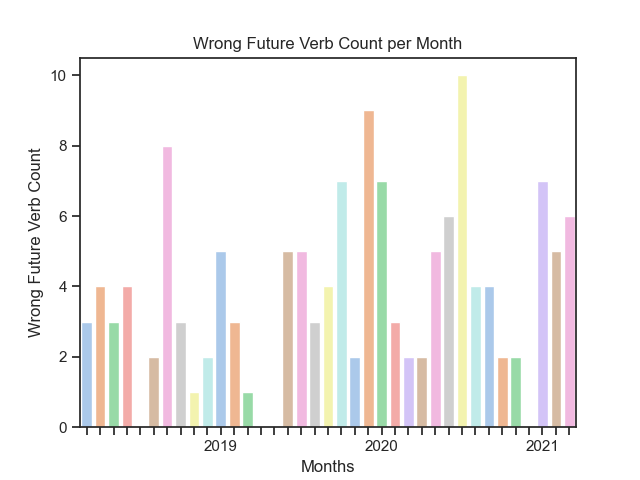
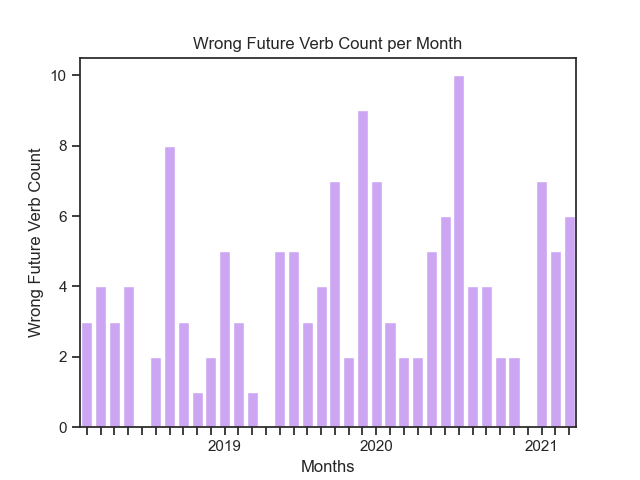
more visualizations

Changed region(s): [[0.125, 0.1562, 0.9062, 0.9375]]

diff --git a/code/visualize_gender_mismatch.py b/code/visualize_gender_mismatch.py
@@ -1,15 +1,16 @@
 import seaborn as sns
 import pandas as pd
-from consts import YEARS, GENDER_MISMATCH_PATHS, MONTHS, FUTURE_VERB_PATHS
+from consts import YEARS, GENDER_MISMATCH_PATHS, MONTHS, FUTURE_VERB_PATHS, PATHS
 import os
 from visualize import format_month_values
 import matplotlib.pyplot as plt
-from utilities import generate_df_from_csv_path, invert_words
+from utilities import generate_df_from_csv_path, invert_words, get_all_tokens_from_array
 from collections import Counter
 import networkx as nx
 import itertools
 from wordcloud import WordCloud
 from visualize import _reverse_hebrew_word
+import glob
 
 
 def rename_head_mismatch_columns_in_verb_noun():
@@ -41,6 +42,9 @@ def create_df_num_gender_mismatch_per_year():
     del mismatches_noun_num_per_month[f'2018-02']
     del mismatches_noun_adj_per_month[f'2018-02']
     del mismatches_verb_noun_per_month[f'2018-02']
+    del mismatches_noun_num_per_month[f'2019-04']
+    del mismatches_noun_adj_per_month[f'2019-04']
+    del mismatches_verb_noun_per_month[f'2019-04']
     gender_mismatch_dict = {"noun_num": mismatches_noun_num_per_month,
                             "noun_adj": mismatches_noun_adj_per_month,
                             "verb_noun": mismatches_verb_noun_per_month}
@@ -90,6 +94,7 @@ def create_df_num_wrong_future_verb_per_year():
             del wrong_future_verb_per_month[f'2021-{month}']
     del wrong_future_verb_per_month[f'2018-01']
     del wrong_future_verb_per_month[f'2018-02']
+    del wrong_future_verb_per_month[f'2019-04']
     for year in YEARS:
         for df, month, filename in generate_df_from_csv_path(FUTURE_VERB_PATHS[year]):
             if 'chunk1_' in filename:
@@ -138,7 +143,7 @@ def create_future_verb_graph():
         dfs.append(df)
         x_values = [format_month_values(month_tag) for month_tag in df['month']]
     final_df = pd.concat(dfs, ignore_index=True)
-    plot = sns.barplot(x='month', y='count', data=final_df, palette="pastel")
+    plot = sns.barplot(x='month', y='count', data=final_df, color='#CC99FF')
     # plot = sns.lineplot(x='month', y='count', hue='mismatch name', style="mismatch name", markers=True, data=final_df, palette="pastel")
     plot.set_xticklabels(x_values)
     # plt.xticks(ticks=list(range(len(x_values))), labels=x_values)
@@ -176,6 +181,37 @@ def create_graph_for_common_gender_mismatches_wordsun_interesting_word(word):
 
     plot_gender_mismatch_word_graph(word, heads_to_mistakes_list[word])
 
+
+def create_graph_for_common_gender_mismatches_wordsun_number_in_center(number):
+    most_common_heads = [number]
+    number_to_noun_list = {number_word: set() for number_word in most_common_heads}
+    for year in YEARS:
+        for df, month, filename in generate_df_from_csv_path(GENDER_MISMATCH_PATHS[year]):
+            if 'noun_num' in filename:
+                for number_word in number_to_noun_list:
+                    mistakes = df[df['mismatch'] == number_word]
+                    if not mistakes.empty:
+                        # print(mistakes['sentence'])
+                        number_to_noun_list[number_word].update(list(mistakes['head']))
+
+    plot_gender_mismatch_word_graph(number, number_to_noun_list[number])
+
+def create_graph_for_common_gender_mismatches_wordsun_number_in_center_most_common(number):
+    most_common_heads = [number]
+    number_to_noun_list = {number_word: list() for number_word in most_common_heads}
+    for year in YEARS:
+        for df, month, filename in generate_df_from_csv_path(GENDER_MISMATCH_PATHS[year]):
+            if 'noun_num' in filename:
+                for number_word in number_to_noun_list:
+                    mistakes = df[df['mismatch'] == number_word]
+                    if not mistakes.empty:
+                        print(list(mistakes['sentence']))
+                        number_to_noun_list[number_word].extend(list(mistakes['head']))
+    count_mistakes = Counter(number_to_noun_list[number])
+    print(count_mistakes)
+    common = count_mistakes.most_common()[:10]
+
+    plot_gender_mismatch_word_graph(number, set(word for word, count in common))
 
 def plot_gender_mismatch_word_graph(head, mistakes):
     G = nx.Graph()
@@ -263,12 +299,86 @@ def plot_word_cloud_for_common_mistaken_verbs():
     plt.axis("off")
     plt.show()
 
+
+def count_interesting_words_in_the_data():
+    count_df = pd.DataFrame([['', 0, 0, 0], ['', 0, 0, 0], ['', 0, 0, 0]], columns=['word', 'total', 'mistake_num', 'percent'])
+    count_df['word'] = ['שלושת', 'גרביים', 'שתי']
+    # count_df = pd.DataFrame([['', 0,0,0,0]], columns=['row_name', 'birthday', 'socks', 'three_masc', 'two_fem'])
+    # count_df['row_name'] = 'total'
+    for year in YEARS:
+        all_files = glob.glob(PATHS[year] + "/*.csv")
+        for filename in all_files:
+            try:
+                df_iter = pd.read_csv(filename, chunksize=200, iterator=True, encoding='utf-8')
+                for first_df in df_iter:
+                    tokens = get_all_tokens_from_array(list(first_df['text']))
+                    counts = Counter(tokens)
+                    count_df.loc[count_df['word'] == 'שלושת', "total"] += counts['שלושת']
+                    count_df.loc[count_df['word'] == 'גרביים', "total"] += counts['גרביים']
+                    count_df.loc[count_df['word'] == 'שתי', "total"] += counts['שתי']
+                    # count_df['three_masc'] += counts['שלושת']
+                    # count_df['socks'] += counts['גרביים']
+                    # count_df['two_fem'] += counts['שתי']
+                    break
+            except:
+                print(filename)
+    count_df.to_csv('./results/gender_mismatch/count_interesting_words.csv')
+
+
+def count_mistaken_interesting_words_in_the_data():
+    count_df = pd.read_csv('./results/gender_mismatch/count_interesting_words.csv')
+    # to_add = pd.DataFrame([['', 0,0,0,0]], columns=['row_name', 'birthday', 'socks', 'three_masc', 'two_fem'])
+    # to_add['row_name'] = 'mistake_num'
+    for year in YEARS:
+        for df, month, filename in generate_df_from_csv_path(GENDER_MISMATCH_PATHS[year]):
+            if 'chunk1_' in filename:
+                if 'noun_num' in filename:
+                    counts = Counter(list(df['mismatch']))
+                    # count_df['three_masc'] += counts['שלושת']
+                    # count_df['two_fem'] += counts['שתי']
+                    count_df.loc[count_df['word'] == 'שלושת', "mistake_num"] += counts['שלושת']
+                    count_df.loc[count_df['word'] == 'שתי', "mistake_num"] += counts['שתי']
+                counts = Counter(get_all_tokens_from_array(list(df['head'])))
+                # count_df['socks'] += counts['גרביים']
+                count_df.loc[count_df['word'] == 'גרביים', "mistake_num"] += counts['גרביים']
+    # count_df = count_df.append(to_add, ignore_index=True)
+    count_df.to_csv('./results/gender_mismatch/count_interesting_words.csv', columns=['word', 'total', 'mistake_num', 'percent'])
+
+def calculate_percent_interesting_words_in_the_data():
+    count_df = pd.read_csv('./results/gender_mismatch/count_interesting_words.csv')
+    # count_df['percent'] = (count_df[["mistake_num"]] / count_df['total']) * 100
+    for index, row in count_df.iterrows():
+        count_df.loc[count_df['word'] == row['word'], "percent"] = (row["mistake_num"] / float(row['total'])) * 100
+    count_df.to_csv('./results/gender_mismatch/count_interesting_words.csv',
+                    columns=['word', 'total', 'mistake_num', 'percent'])
+
+
+def plot_mistake_percent_interesting_words():
+    sns.set_theme(style="ticks")
+    df = pd.read_csv('results/gender_mismatch/count_interesting_words.csv', encoding='utf-8')
+    plot = sns.barplot(x=invert_words(df['word']), y='percent', data=df, color='#CC99FF')
+    # plot = sns.lineplot(x='month', y='count', hue='mismatch name', style="mismatch name", markers=True, data=final_df, palette="pastel")
+    # plot.set_xticklabels(x_values)
+    # plt.xticks(ticks=list(range(len(x_values))), labels=x_values)
+    plt.title("Percent of mistaken words from the corpus")
+    plt.xlabel('Words')
+    plt.ylabel('Gender mismatch percent')
+    plt.ylim(-0.3, 50)
+
+    plt.show()
+
 # plot_gender_mismatch_word_graph_example()
 # create_gender_mismatch_graph()
 # create_df_num_gender_mismatch_per_year()
 # create_future_verb_graph()
 # plot_top_gender_mismatch_words_barchart()
 # create_gender_mismatch_graph
-create_graph_for_common_gender_mismatches_wordsun()
+# create_graph_for_common_gender_mismatches_wordsun()
 # plot_word_cloud_for_common_mistaken_verbs()
 # create_df_num_wrong_future_verb_per_year()
+# create_graph_for_common_gender_mismatches_wordsun_number_in_center('שני')
+# create_graph_for_common_gender_mismatches_wordsun_number_in_center_most_common('שלושת')
+# count_interesting_words_in_the_data()
+# count_mistaken_interesting_words_in_the_data()
+# calculate_percent_interesting_words_in_the_data()
+plot_mistake_percent_interesting_words()

diff --git a/code/stanza_processor.py b/code/stanza_processor.py
@@ -56,3 +56,7 @@ class Processor:
                 tot_df["head"] = tot_df["head"].astype(int)
                 dfs.append(tot_df)
         return dfs
+
+# processor = Processor()
+# a=processor.get_stanza_analysis('אם הייתי ביביסט (שאני לא), הייתי מקווה מאוד שברק יחזור לפוליטיקה ויפרק את המרכז/שמאל עוד יותר')
+# print('hi')

diff --git a/code/utilities.py b/code/utilities.py
@@ -28,7 +28,7 @@ def generate_df_from_csv_path(path):
         try:
             df = pd.read_csv(filename, encoding='utf-8')
             month = filename.split('-')[1]
-            print('yielding! - ' + filename)
+            # print('yielding! - ' + filename)
             yield df, month, filename
         except:
             print(filename)
